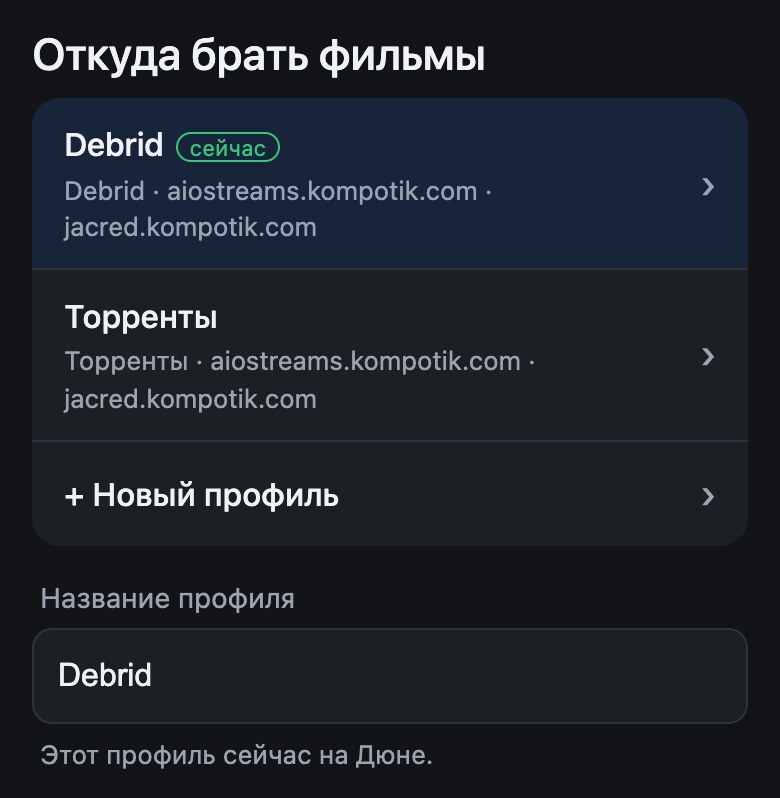
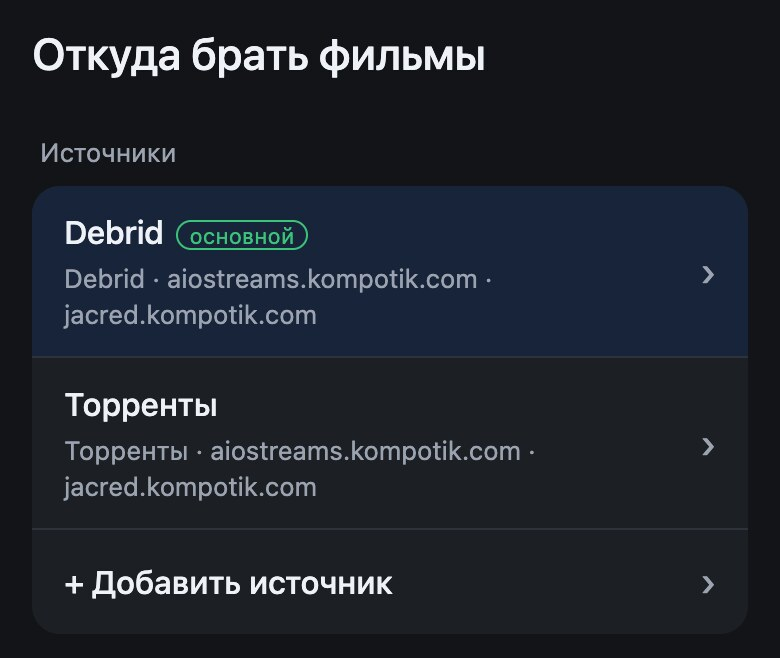
docs: кадры источников v2 — список, копия источника, «Дополнительно» без выключателя профилей

diff --git a/docs/profiles.md b/docs/profiles.md
@@ -6,6 +6,8 @@
 
 2. Впишите название, выберите вид источника и нажмите «Сохранить». Так же добавьте остальные.
 
+   <img src="../screenshots/profiles-copy.jpg" alt="Копия источника: название «Debrid 2», вид Debrid, ключ Real-Debrid точками, внизу «Сохранить и создать конфиг»" width="300">
+
    Lampac — если у вас свой сервер; адрес вписываете сами.
 
 3. Вверху появился блок «Источники». Новые фильмы Дюна открывает из основного (пометка «основной»). Чтобы сменить его, откройте другой источник и нажмите «Сделать основным».

diff --git a/docs/profiles.en.md b/docs/profiles.en.md
@@ -6,6 +6,8 @@ Add several sources (Debrid, torrents, your own config) and open a movie on the 
 
 2. Type a name, choose the kind of source and press "Save". Add the others the same way.
 
+   <img src="../screenshots/profiles-copy.jpg" alt="Copy of a source: name Debrid 2, kind Debrid, Real-Debrid key as dots, Save and create the config at the bottom" width="300">
+
    Lampac: if you have your own server; you type its address yourself.
 
 3. A "Sources" block now appears at the top. The Dune opens new movies from the main source (marked "main"). To change it, open another source and press "Set as main".
